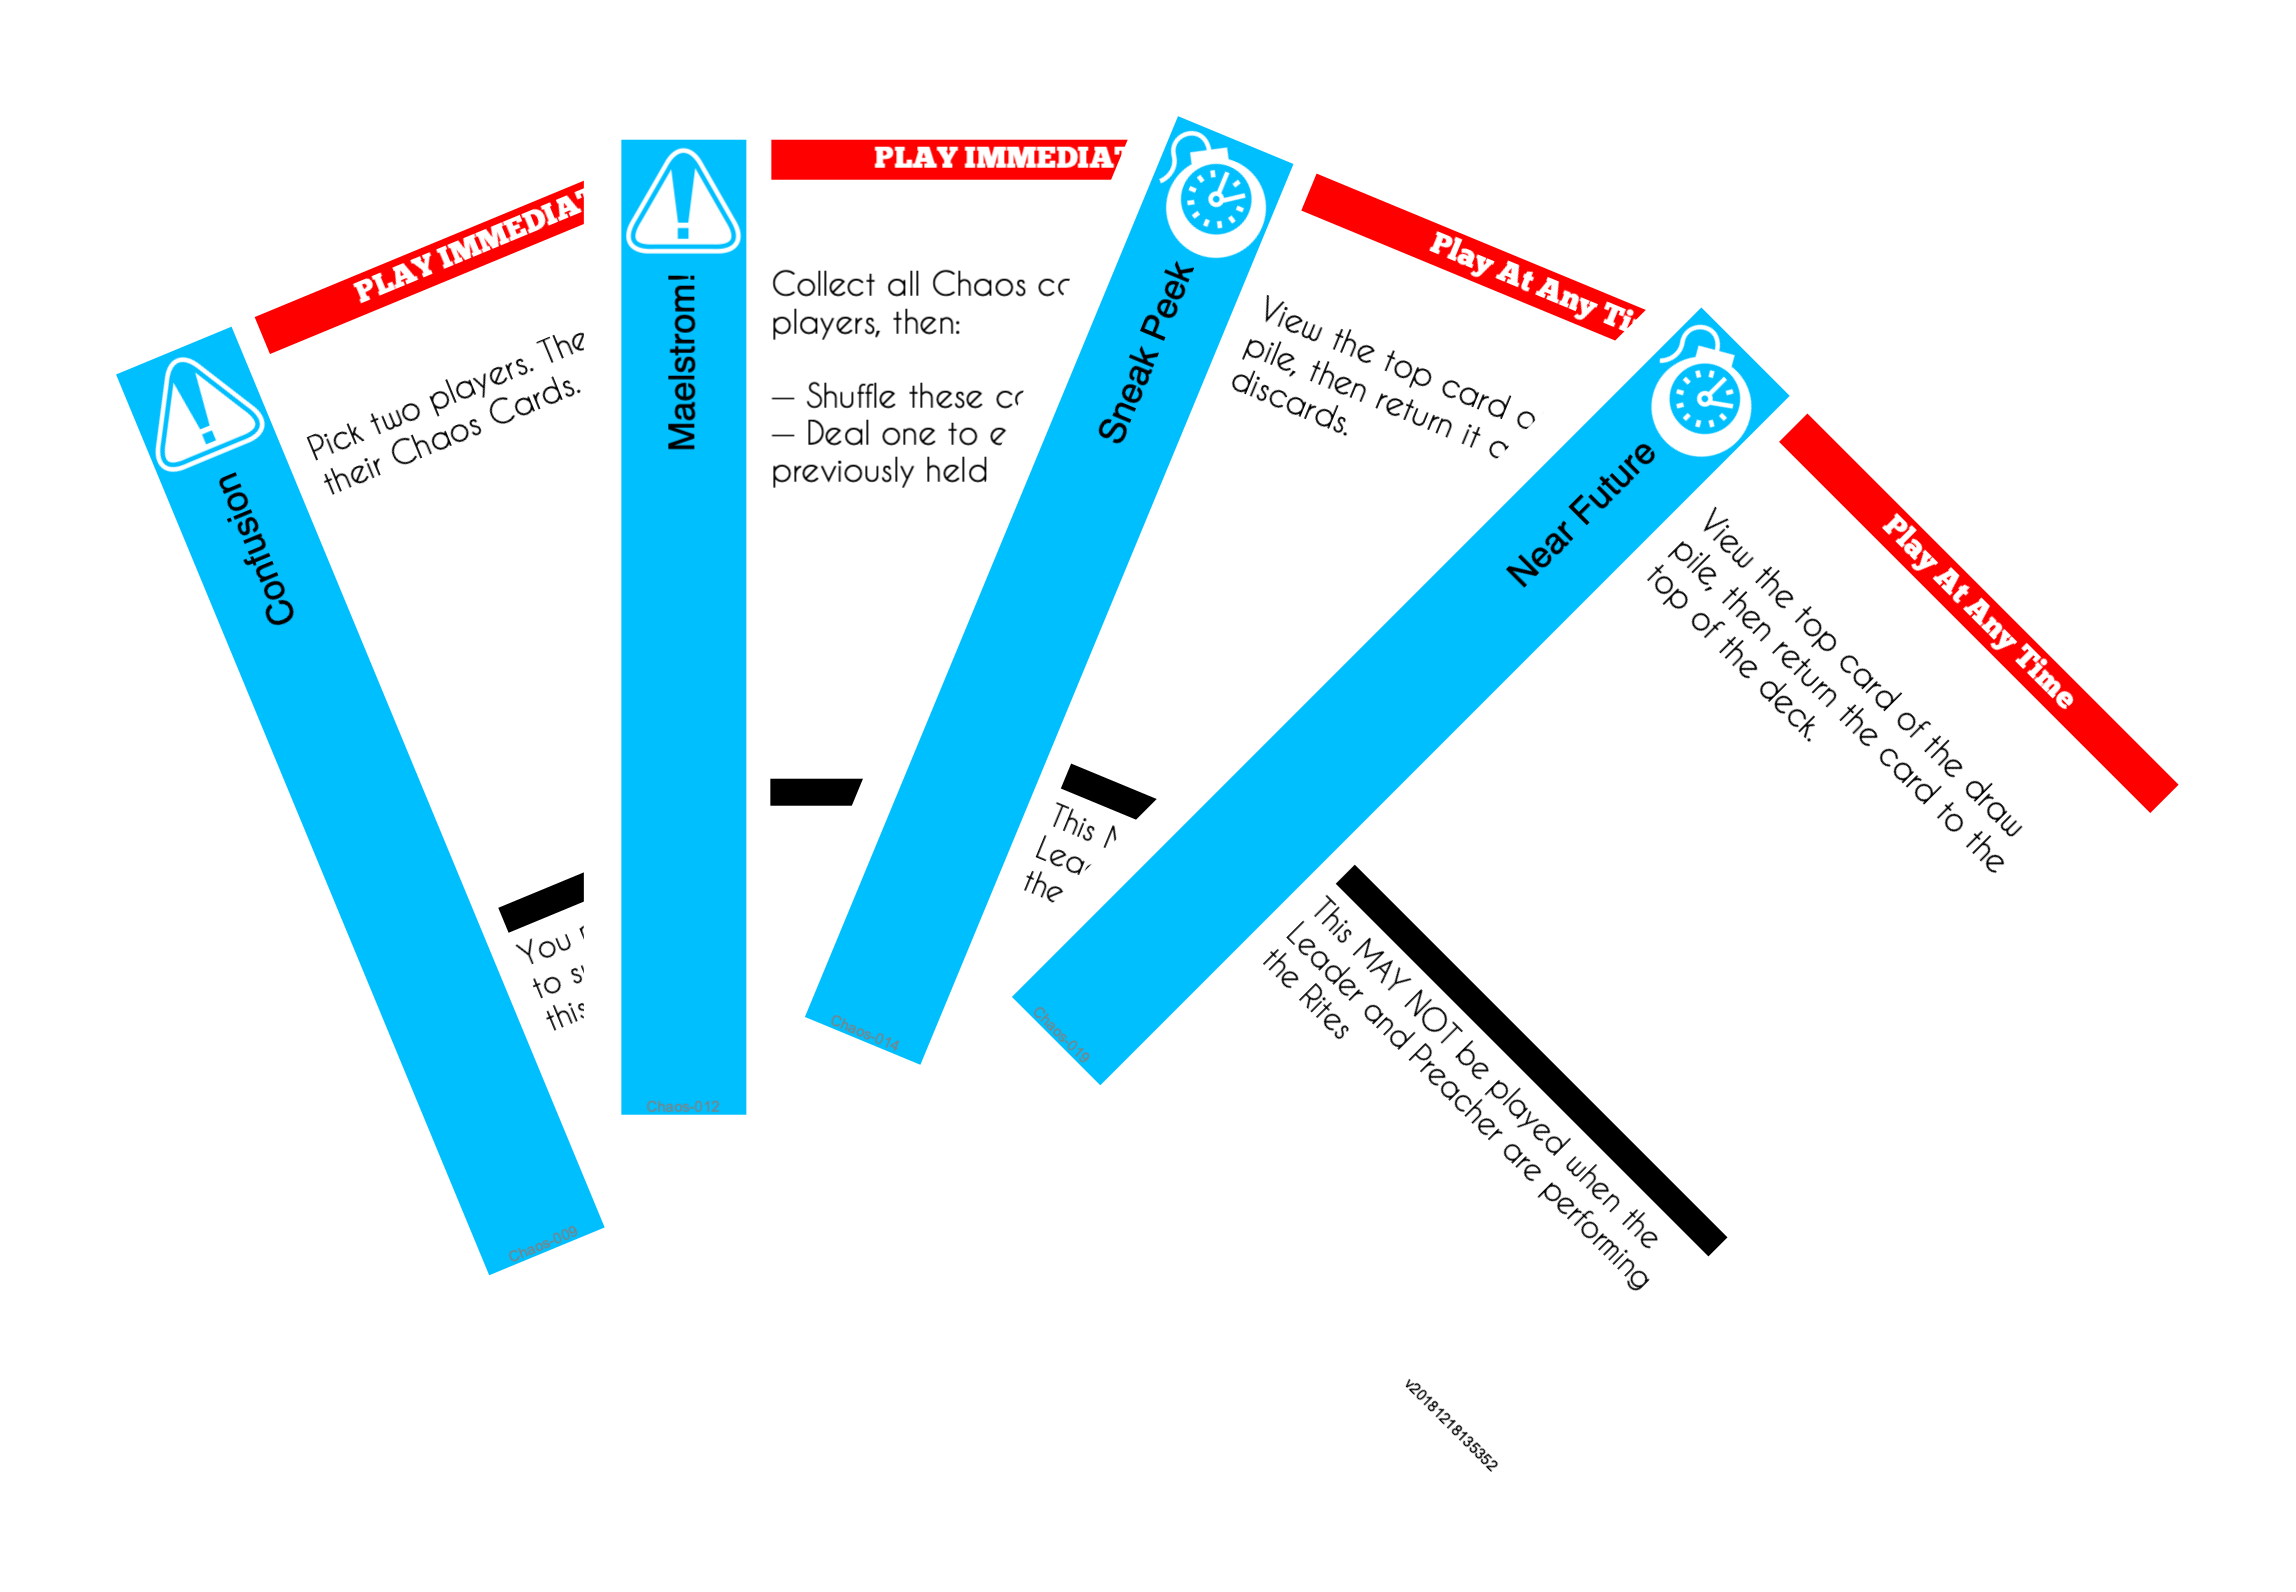
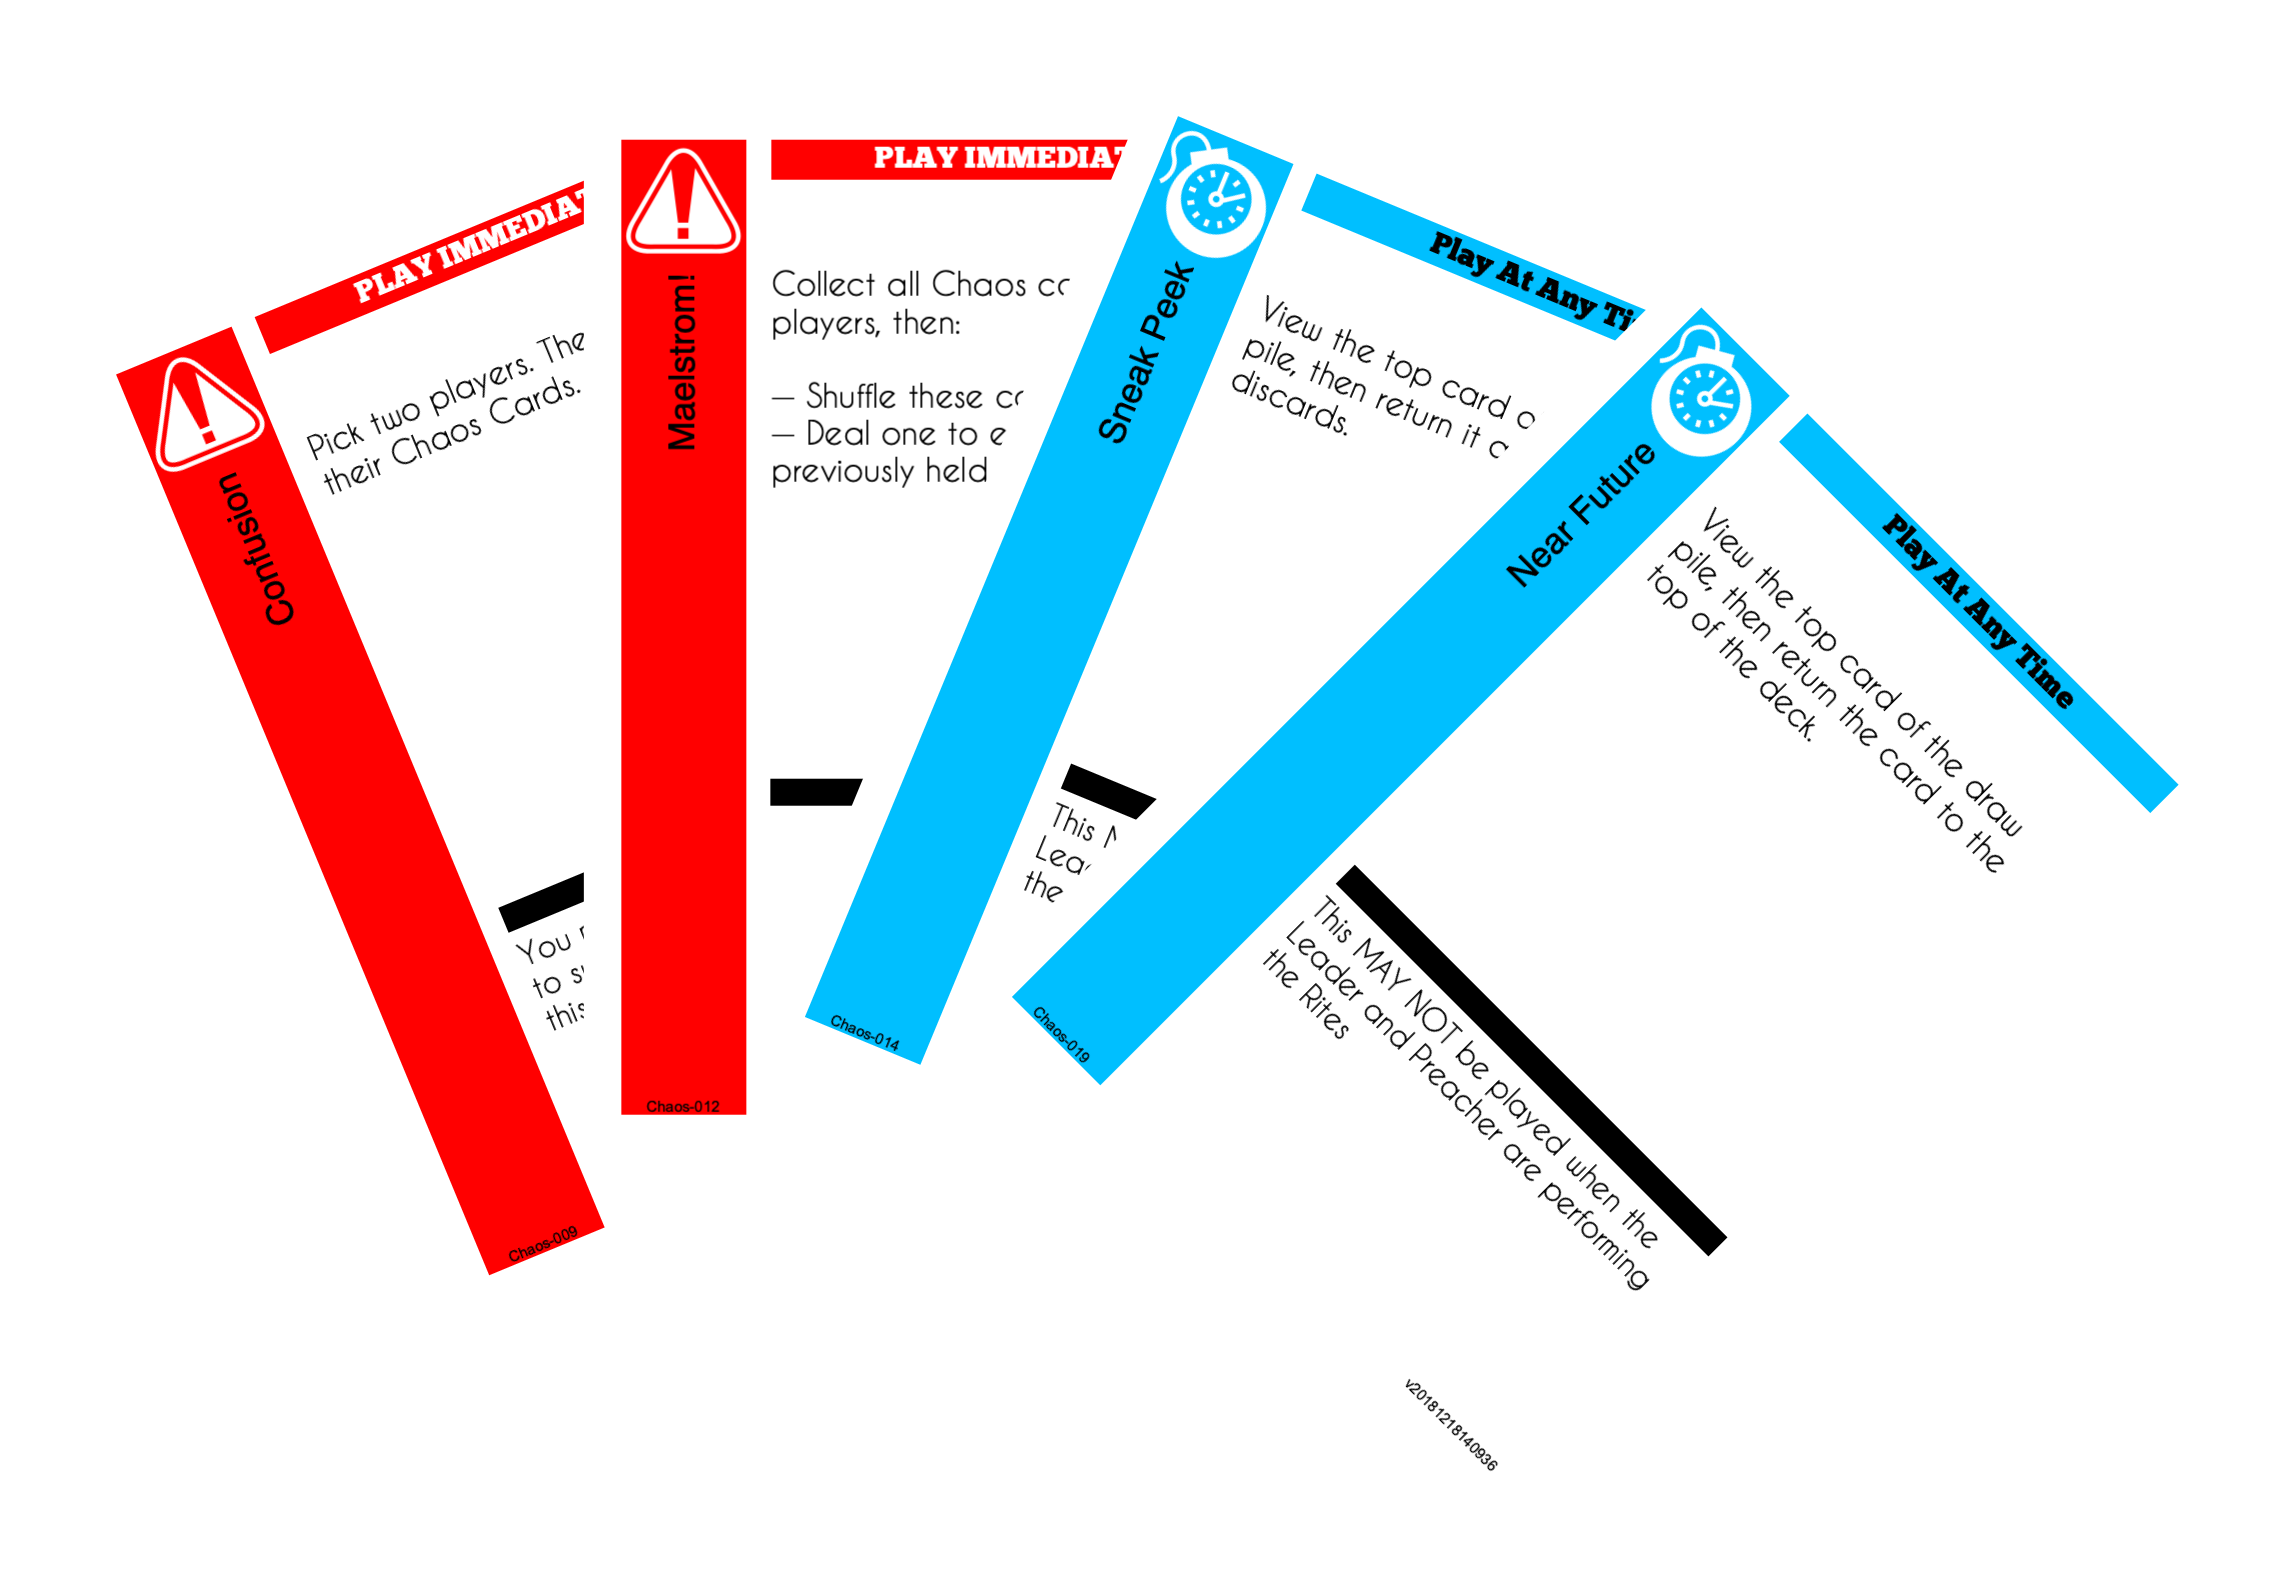
Update title BG/FG colours programatically
- make "play immediately" look different

Changed region(s): [[0.0309, 0.0616, 0.3402, 0.8003], [0.7731, 0.2462, 0.9586, 0.5232], [0.5566, 0.0923, 0.7112, 0.2155]]

diff --git a/chaos-deck.rb b/chaos-deck.rb
@@ -8,9 +8,11 @@ deck = Squib.csv(
 # some prerendering prep
 version = "v" + Time.new.strftime("%Y%m%d%H%M%S")
 
+TitleBoxColorBG = []
+TitleBoxColorFG = []
 CardIDs = []
-seenCard = { }
-showcaseToggle = []
+SeenCard = { }
+AddToShowcase = []
 
 (0 .. deck.nrows-1).each { |i|
     # add card id
@@ -19,40 +21,49 @@ showcaseToggle = []
     # automatically work out what to showcase (the first time we see a card title)
     row     = deck.row(i)
     title   = row['Title']
-    if seenCard[title] == nil
-        seenCard[title] = 1
-        showcaseToggle.push(1)
+    if SeenCard[title] == nil
+        SeenCard[title] = 1
+        AddToShowcase.push(1)
     else
-        showcaseToggle.push(nil)
+        AddToShowcase.push(nil)
+    end
+
+    # make "play immediately" look different
+    if (deck.row(i)['TypeText'] == 'PLAY IMMEDIATELY')
+        TitleBoxColorFG.push(:white)
+        TitleBoxColorBG.push(:red)
+    else
+        TitleBoxColorFG.push(:black)
+        TitleBoxColorBG.push(:deep_sky_blue)
     end
 }
-deck['AddToShowcase']   = showcaseToggle
-deck['CardID']          = CardIDs
+deck['AddToShowcase']       = AddToShowcase
+deck['CardID']              = CardIDs
+deck['TitleBoxColorBG']     = TitleBoxColorBG
+deck['TitleBoxColorFG']     = TitleBoxColorFG
 
 Squib::Deck.new(cards: deck['Title'].size, layout: %w(chaos-deck-layout.yml)) do
 
   background color: 'white'
 
-  rect layout: :TitleBox, fill_color: :deep_sky_blue, stroke_width: 0
+  # use the determined colour from the autu-prep loop above
+  rect layout: :TitleBox, fill_color: deck['TitleBoxColorBG'], stroke_width: 0
+  rect layout: :TypeBox,  fill_color: deck['TitleBoxColorBG'], stroke_width: 0
+
+  # this one's always filled with black
   rect fill_color: :black,   layout: :middle_rect
-  rect fill_color: :red,   layout: :TypeBox, stroke_width: 0
 
   # 'Type' icons
   svg data: deck['Type'].map { |t| t!=nil ? GameIcons.get(t).recolor(bg_opacity: 0).string : nil}, layout: 'TypeIcon'
 
   # things in white
   %w(TypeText).each do |key|
-    text str: deck[key], color: :white, layout: key
+    text str: deck[key], color: deck['TitleBoxColorFG'], layout: key
   end
 
   # things in black
-  %w(Title RuleTop RuleBottom).each do |key|
+  %w(Title RuleTop RuleBottom CardID).each do |key|
     text str: deck[key], color: :black, layout: key
-  end
-
-  # things in gray
-  %w(CardID).each do |key|
-    text str: deck[key], color: :gray, layout: key
   end
 
   # this is the same on all cards
